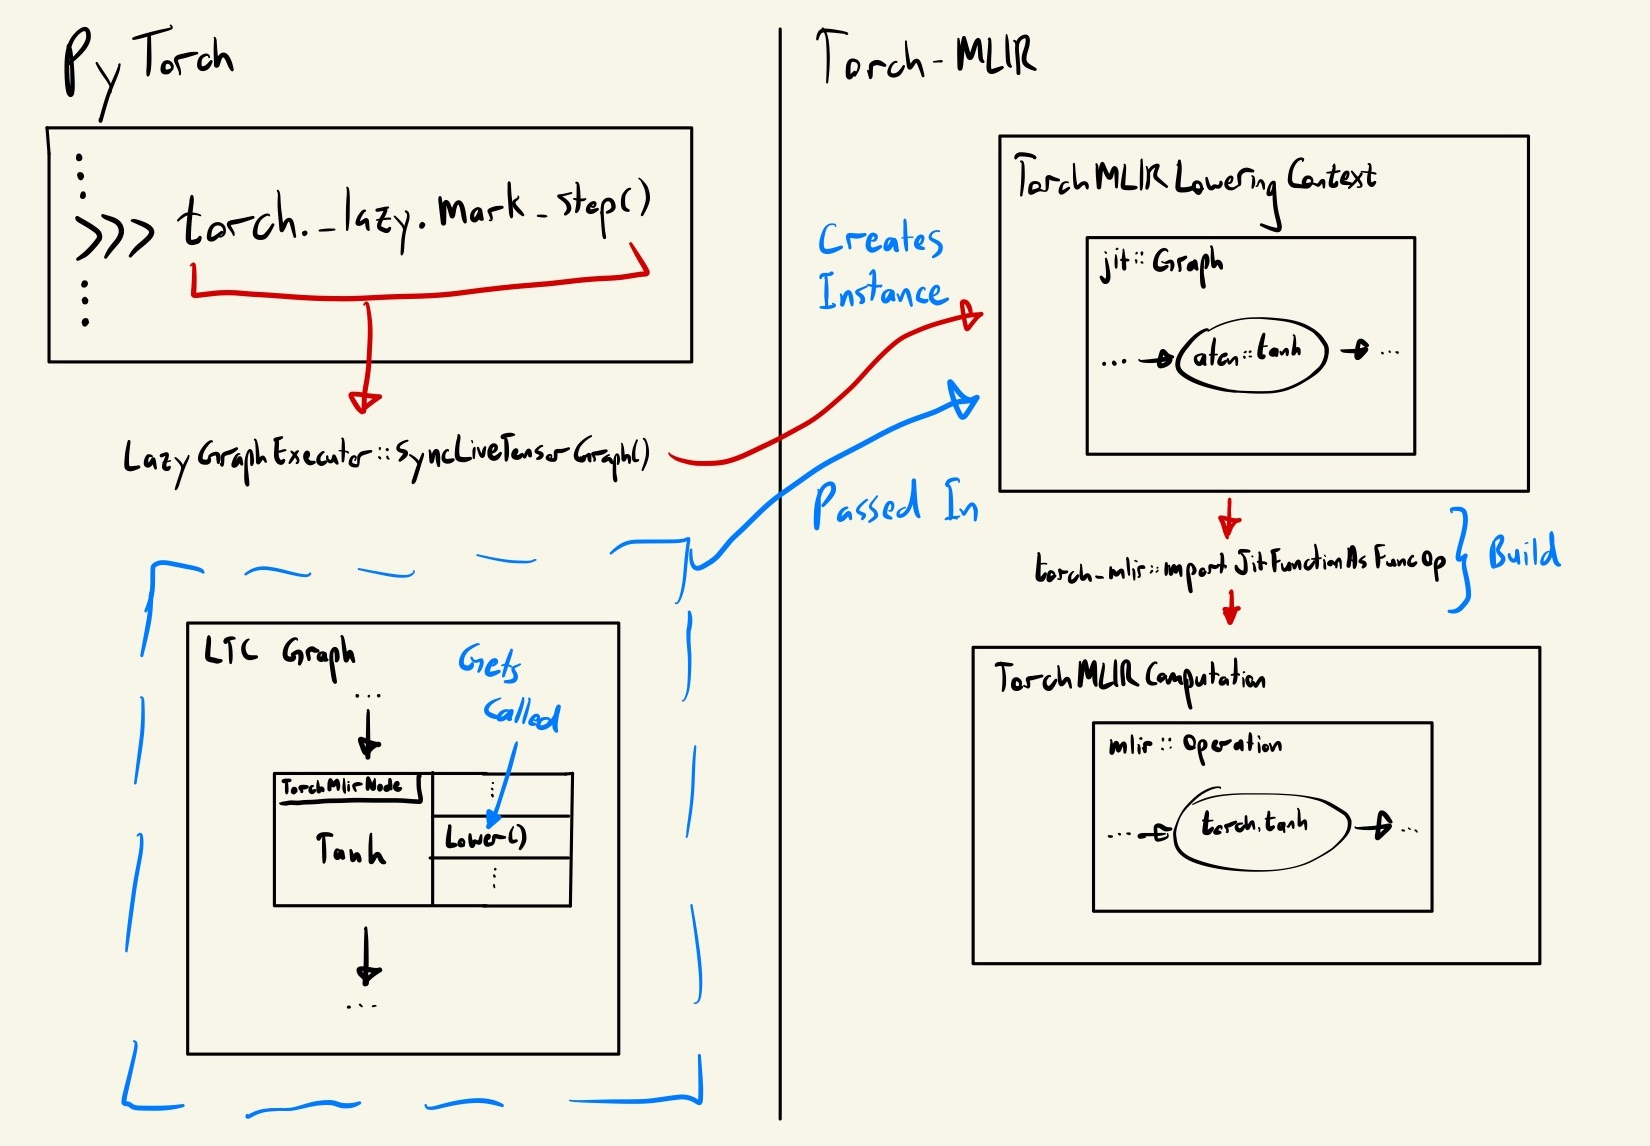
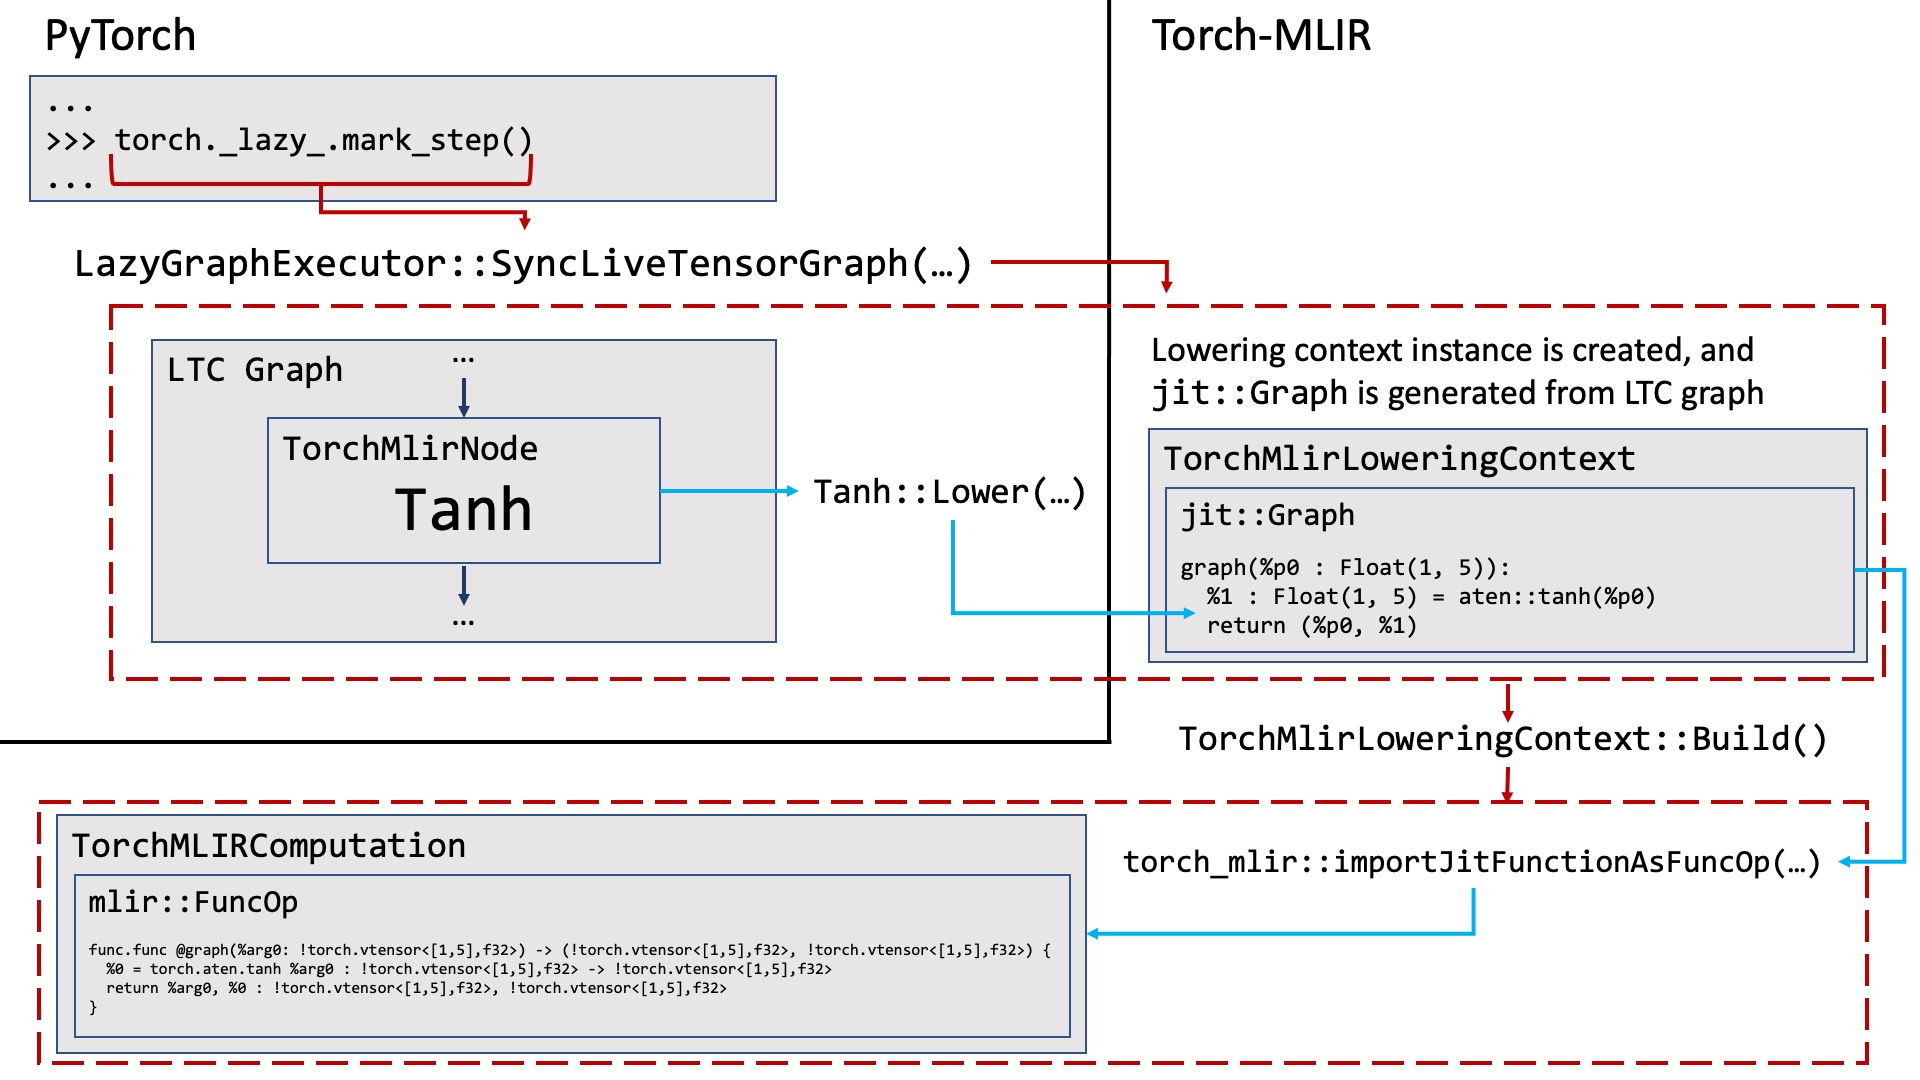
Updated diagrams

diff --git a/docs/ltc_backend.md b/docs/ltc_backend.md
@@ -149,7 +149,7 @@ This triggers a call to `LazyGraphExecutor::SyncLiveTensorsGraph` somewhere in t
 creates an instance of `TorchMlirLoweringContext`. Here, the `TorchMlirNode`s are lowered to JIT via `mlir_node_lowering.cpp` and inserted into a `jit::Graph`.
 
 Next, `TorchMlirLoweringContext::Build` is executed and the final `jit::Graph` is sent to `torch_mlir::importJitFunctionAsFuncOp` to generate MLIR using the existing infrastructure from Torch-MLIR.
-At this point, a `TorchMlirComputation` is created containing the final `mlir::Operation`.
+At this point, a `TorchMlirComputation` is created containing the final `mlir::FuncOp`.
 
 ![Syncing Tensors](ltc_images/syncing_tensors.jpg)
 
